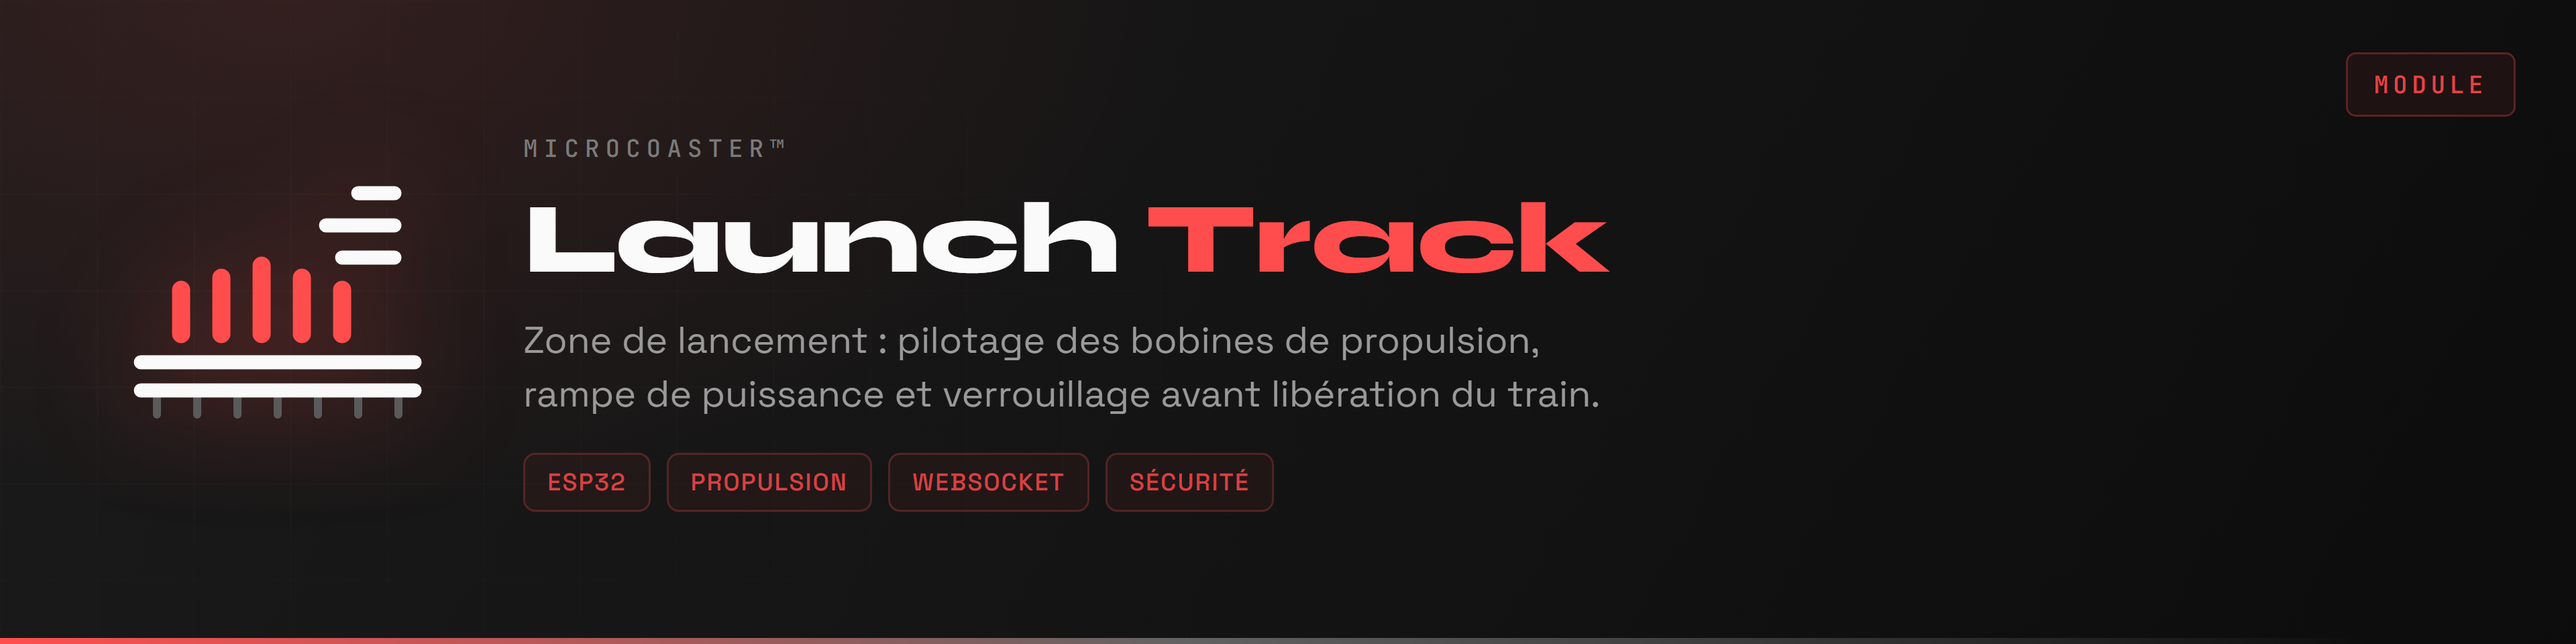
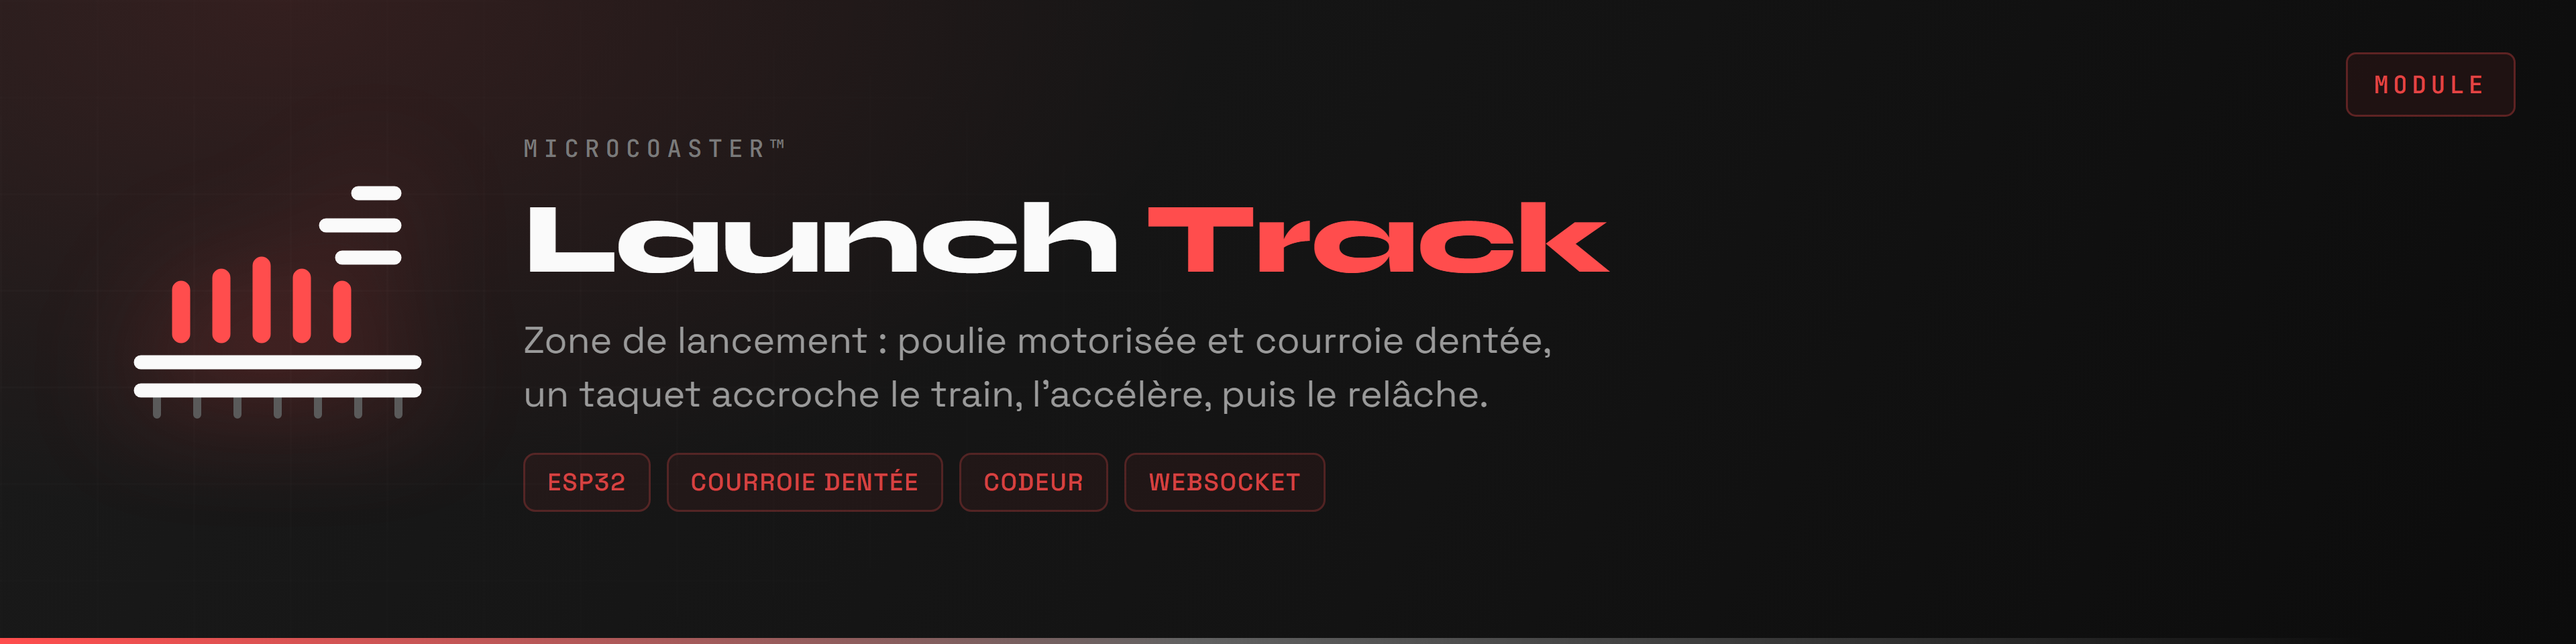
Corrige la mécanique décrite
J'avais supposé une propulsion électromagnétique par bobines. Le module
fonctionne par entraînement mécanique : un moteur tourne une poulie, la
poulie entraîne une courroie dentée, et un taquet solidaire de la
courroie accroche le train.

Le brochage passe du pilotage de quatre MOSFET à un moteur avec codeur,
et la protection principale devient la détection de patinage du taquet
plutôt que la surchauffe des bobines.

Changed region(s): [[0.1875, 0.5938, 0.625, 0.6562], [0.3438, 0.5, 0.5938, 0.5625], [0.2812, 0.7188, 0.5, 0.7812]]

diff --git a/src/main.cpp b/src/main.cpp
@@ -1,8 +1,9 @@
 /*
  * MicroCoaster - Module Launch Track ESP32
  *
- * Zone de lancement : pilotage des bobines de propulsion, rampe de puissance
- * et verrouillage du train tant que la séquence n'est pas autorisée.
+ * Zone de lancement par entraînement mécanique : un moteur fait tourner une
+ * poulie, la poulie entraîne une courroie dentée, et un taquet solidaire de la
+ * courroie accroche le train pour l'accélérer avant de le relâcher.
  *
  * Auteurs: CyberSpaceRS, Yamakajump
  * Version: 0.1.0
@@ -17,20 +18,23 @@
 // CONFIGURATION MATERIELLE
 // ========================================
 
-// Sorties de puissance. Chaque bobine est commandée par son propre MOSFET :
-// la rampe s'obtient en les enclenchant l'une après l'autre, pas en modulant.
-#define COIL_1_PIN 25
-#define COIL_2_PIN 26
-#define COIL_3_PIN 27
-#define COIL_4_PIN 14
+// Moteur d'entraînement de la poulie, via pont en H.
+#define MOTOR_PWM_PIN 25
+#define MOTOR_DIR_PIN 26
+#define MOTOR_ENABLE_PIN 27
 
-// Frein de maintien. Actif tant que le lancement n'est pas autorisé : c'est lui
-// qui garantit qu'un train ne part pas sur un ordre perdu ou une coupure réseau.
-#define HOLD_BRAKE_PIN 12
+// Codeur sur l'arbre de la poulie. Donne la vitesse réelle de la courroie et
+// permet de savoir où se trouve le taquet sur son parcours.
+#define ENCODER_A_PIN 34
+#define ENCODER_B_PIN 35
 
-// Détection de présence en entrée de zone et de sortie effective du train.
-#define SENSOR_ENTRY_PIN 34
-#define SENSOR_EXIT_PIN 35
+// Capteur de position de repos du taquet. Entre deux lancements, le taquet doit
+// revenir exactement là, sinon il n'accrochera pas le train suivant.
+#define CATCH_HOME_PIN 32
+
+// Présence du train en zone, et sortie effective après lancement.
+#define SENSOR_TRAIN_PIN 33
+#define SENSOR_EXIT_PIN 36
 
 // Signalisation d'état.
 #define LED_READY_PIN 2
@@ -40,44 +44,68 @@
 // PARAMETRES DE LANCEMENT
 // ========================================
 
-// Délai entre l'enclenchement de deux bobines consécutives, en millisecondes.
-// Plus il est court, plus l'accélération est forte.
-static const uint16_t COIL_STEP_MS = 60;
+// Vitesse de courroie visée en fin d'accélération, en pourcentage du rapport
+// cyclique moteur.
+static const uint8_t LAUNCH_SPEED_PERCENT = 85;
 
-// Durée maximale d'alimentation d'une bobine. Au-delà, on coupe : une bobine
-// laissée sous tension chauffe et rien ne justifie de la maintenir si le train
-// n'est pas sorti de la zone.
-static const uint16_t COIL_MAX_ON_MS = 400;
+// Durée de la rampe d'accélération, en millisecondes. C'est elle qui donne son
+// caractère au lancement : courte, la poussée est brutale ; longue, elle est
+// progressive. Trop courte, le taquet patine ou arrache.
+static const uint16_t RAMP_UP_MS = 700;
 
-// Temps au-delà duquel on considère que le train n'est jamais sorti.
-static const uint16_t LAUNCH_TIMEOUT_MS = 3000;
+// Décélération de la courroie une fois le train relâché. La courroie ne doit
+// pas s'arrêter net : le taquet reviendrait en butée.
+static const uint16_t RAMP_DOWN_MS = 900;
+
+// Vitesse de retour du taquet à sa position de repos.
+static const uint8_t RETURN_SPEED_PERCENT = 30;
+
+// Écart toléré entre la vitesse demandée et la vitesse mesurée au codeur.
+// Au-delà, c'est que le taquet patine sur le train.
+static const uint8_t SLIP_TOLERANCE_PERCENT = 15;
+
+// Délais de garde.
+static const uint16_t LAUNCH_TIMEOUT_MS = 4000;
+static const uint16_t RETURN_TIMEOUT_MS = 6000;
 
 // ========================================
 // ETATS
 // ========================================
 
 enum LaunchState {
-  STATE_IDLE,      // Aucun train en zone
-  STATE_LOADED,    // Train présent, frein serré, en attente d'autorisation
-  STATE_LAUNCHING, // Séquence de bobines en cours
-  STATE_FAULT      // Anomalie : sortie non constatée, capteur incohérent
+  STATE_HOMING,    // Recherche de la position de repos du taquet
+  STATE_IDLE,      // Taquet au repos, aucun train en zone
+  STATE_LOADED,    // Train présent et accroché, en attente d'autorisation
+  STATE_LAUNCHING, // Accélération de la courroie en cours
+  STATE_RELEASED,  // Train relâché, décélération de la courroie
+  STATE_RETURNING, // Retour du taquet vers sa position de repos
+  STATE_FAULT      // Patinage, taquet perdu, ou délai dépassé
 };
 
-static LaunchState state = STATE_IDLE;
+static LaunchState state = STATE_HOMING;
 
 // ========================================
 // A IMPLEMENTER
 // ========================================
 //
-// setup()  : initialisation des sorties en état sûr (frein serré, bobines
-//            coupées), portail WiFi, puis connexion WebSocket au serveur.
+// setup()  : moteur en état sûr, interruptions sur les deux voies du codeur,
+//            recherche de la position de repos du taquet, portail WiFi, puis
+//            connexion WebSocket au serveur.
 //
-// loop()   : lecture des capteurs, machine à états ci-dessus, et remontée de
-//            télémétrie périodique.
+// loop()   : machine à états ci-dessus, asservissement de vitesse sur le
+//            codeur, détection de patinage, et télémétrie périodique.
 //
-// Règle qui ne se discute pas : toute perte de liaison WebSocket ramène le
-// module en STATE_LOADED avec le frein serré. Le lancement n'est jamais
-// déclenché localement, il est toujours autorisé par le contrôleur.
+// Trois règles qui ne se discutent pas.
+//
+// Le lancement n'est jamais décidé localement. Le module exécute un ordre du
+// contrôleur, qui seul sait si la voie en aval est libre.
+//
+// Un écart durable entre vitesse demandée et vitesse mesurée signifie que le
+// taquet patine sur le train. On coupe : insister use la courroie et peut
+// endommager l'accroche.
+//
+// Le taquet doit être à sa position de repos avant d'accepter un nouveau
+// train. Sans cela, il accroche au mauvais endroit, ou pas du tout.
 
 void setup() {
   Serial.begin(115200);

diff --git a/README.md b/README.md
@@ -4,43 +4,70 @@
 
 </div>
 
-La zone de lancement accélère le train sur quelques dizaines de centimètres, au lieu de le hisser en haut d'une montée. Le module pilote une série de bobines de propulsion, les enclenche dans l'ordre pour construire une rampe de puissance, et ne relâche le frein de maintien qu'une fois la séquence autorisée par le contrôleur.
+La zone de lancement accélère le train sur quelques dizaines de centimètres, au lieu de le hisser en haut d'une montée. Un moteur entraîne une poulie, la poulie fait tourner une courroie dentée, et un taquet solidaire de cette courroie vient accrocher le train, l'emmène en accélérant, puis le relâche.
+
+Le module pilote ce moteur, mesure la vitesse réelle de la courroie au codeur, et ramène le taquet à sa position de repos entre deux lancements.
 
 Comme les autres modules, il se configure au premier démarrage par portail captif, puis rejoint le serveur en WebSocket.
 
 ## Principe
 
-Chaque bobine a son propre MOSFET. L'accélération ne vient pas d'une modulation de puissance mais du **décalage entre les enclenchements** : plus l'intervalle est court, plus la poussée est forte. Le réglage se fait dans `COIL_STEP_MS`.
+Tout tourne autour d'une question : le taquet est-il là où on croit, et entraîne-t-il vraiment le train ?
+
+Un codeur sur l'arbre de la poulie répond aux deux. Il donne la vitesse de la courroie, ce qui permet de suivre la rampe d'accélération. Et il donne la position du taquet sur son parcours, ce qui permet de le ramener au repos après chaque lancement.
 
 ```
-Train détecté      frein serré, état LOADED
-Ordre reçu         frein relâché, bobine 1, 2, 3, 4 en cascade
-Sortie constatée   bobines coupées, retour en IDLE
-Pas de sortie      bobines coupées, état FAULT
+HOMING       recherche de la position de repos du taquet
+IDLE         taquet au repos, zone libre
+LOADED       train présent et accroché, en attente d'autorisation
+LAUNCHING    rampe d'accélération de RAMP_UP_MS
+RELEASED     train parti, décélération de la courroie
+RETURNING    retour du taquet au repos
+FAULT        patinage, taquet perdu, ou délai dépassé
 ```
+
+Le taquet ne revient pas en marche arrière brutale : la courroie décélère sur `RAMP_DOWN_MS`, puis repart lentement à `RETURN_SPEED_PERCENT` jusqu'au capteur de repos.
+
+## Détection de patinage
+
+C'est la protection la plus utile du module. Si la vitesse mesurée au codeur s'écarte durablement de la consigne au-delà de `SLIP_TOLERANCE_PERCENT`, c'est que le taquet glisse sur le train au lieu de l'entraîner.
+
+On coupe immédiatement. Insister use la courroie, arrondit les dents, et finit par abîmer la pièce d'accroche du train.
 
 ## Sécurité
 
-Trois garde-fous, dans cet ordre d'importance.
+**Aucun lancement n'est décidé localement.** Le module exécute un ordre du contrôleur, qui seul sait si la voie en aval est dégagée.
 
-**Le frein de maintien est le défaut.** Au repos, à la mise sous tension et à toute anomalie, il est serré. Le train ne part que sur une action explicite.
+**Le taquet doit être au repos avant d'accepter un train.** S'il ne l'est pas, il accrochera au mauvais endroit, ou pas du tout. C'est la raison d'être de l'état `HOMING` au démarrage.
 
-**Aucun lancement n'est décidé localement.** Le module exécute, il ne juge pas. C'est le contrôleur qui autorise, après avoir vérifié que la voie en aval est libre.
-
-**Une perte de liaison ramène en état sûr.** Si le WebSocket tombe, le module repasse en `LOADED`, frein serré, et attend le retour du serveur.
-
-À cela s'ajoutent deux limites matérielles : `COIL_MAX_ON_MS` coupe toute bobine restée alimentée trop longtemps, et `LAUNCH_TIMEOUT_MS` déclare le défaut si la sortie n'est jamais constatée.
+**Deux délais bornent l'opération.** `LAUNCH_TIMEOUT_MS` déclare le défaut si la sortie n'est jamais constatée, `RETURN_TIMEOUT_MS` si le taquet ne retrouve pas sa position de repos.
 
 ## Matériel
 
 | Élément | Broche | Rôle |
 |:--|:--|:--|
-| Bobines 1 à 4 | 25, 26, 27, 14 | Propulsion, un MOSFET par bobine |
-| Frein de maintien | 12 | Actif au repos |
-| Capteur d'entrée | 34 | Présence du train en zone |
-| Capteur de sortie | 35 | Sortie effective |
+| Moteur, rapport cyclique | 25 | Vitesse de la courroie |
+| Moteur, sens | 26 | Lancement ou retour du taquet |
+| Moteur, activation | 27 | Coupure de puissance |
+| Codeur, voie A | 34 | Vitesse et position |
+| Codeur, voie B | 35 | Sens de rotation |
+| Capteur de repos | 32 | Position de repos du taquet |
+| Capteur de présence | 33 | Train en zone |
+| Capteur de sortie | 36 | Sortie effective |
 | LED prêt | 2 | État `LOADED` |
 | LED défaut | 4 | État `FAULT` |
+
+## Réglages
+
+| Paramètre | Effet |
+|:--|:--|
+| `LAUNCH_SPEED_PERCENT` | Vitesse visée en fin d'accélération |
+| `RAMP_UP_MS` | Caractère du lancement : court et brutal, ou long et progressif |
+| `RAMP_DOWN_MS` | Décélération après relâche, évite la butée du taquet |
+| `RETURN_SPEED_PERCENT` | Vitesse de retour au repos |
+| `SLIP_TOLERANCE_PERCENT` | Seuil de détection du patinage |
+
+Une rampe trop courte fait patiner le taquet ou force sur l'accroche. C'est le premier réglage à revoir si le lancement manque de tenue.
 
 ## Compiler et téléverser
 
@@ -64,7 +91,7 @@ Les identifiants restent en mémoire du module, jamais dans le dépôt.
 
 ## État
 
-Version `0.1.0`. Le squelette, le brochage et la machine à états sont posés dans `src/main.cpp`. Restent à écrire la séquence de bobines, l'asservissement du frein et la remontée de télémétrie.
+Version `0.1.0`. Le brochage, les paramètres et la machine à états sont posés dans `src/main.cpp`. Restent à écrire la lecture du codeur sur interruption, l'asservissement de vitesse, la détection de patinage et la télémétrie.
 
 ---
 
